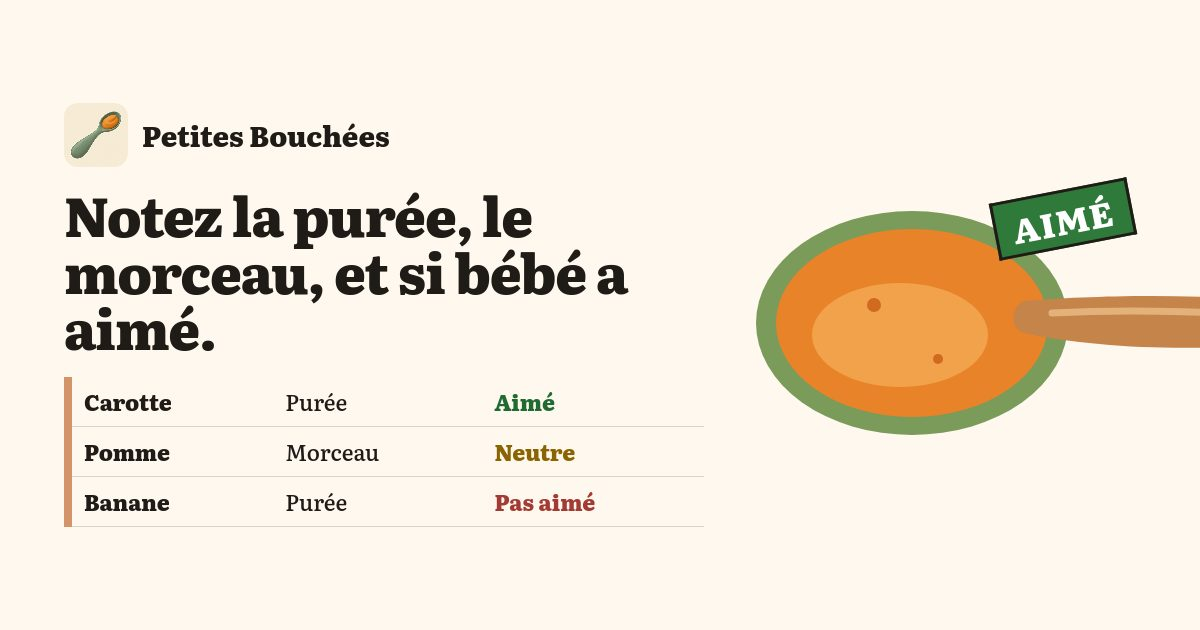
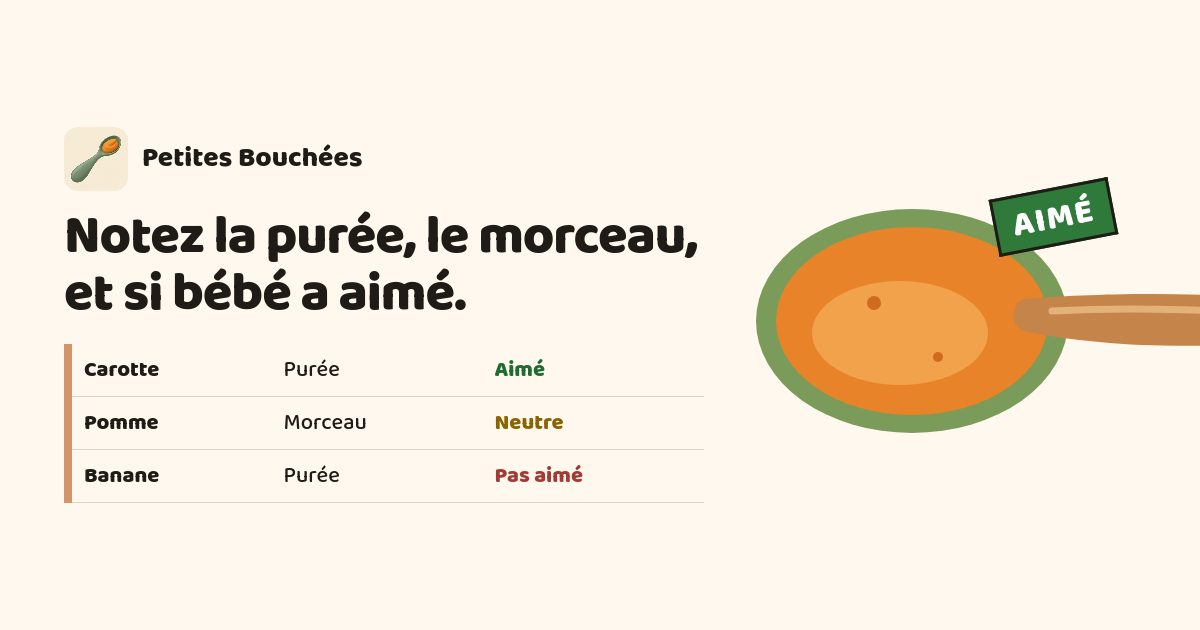
Petites Bouchées: Baloo 2 instead of Literata, and store prices per country (#20)

diff --git a/apps/petites-bouchees/site/spoon.css b/apps/petites-bouchees/site/spoon.css
@@ -1,18 +1,18 @@
 /* Petites Bouchées, "Le couvert". One column until a min-width query. */
 @font-face {
-  font-family: Literata;
+  font-family: "Baloo 2";
   font-style: normal;
   font-weight: 500;
   font-display: swap;
-  src: url("fonts/literata-latin-500-normal.woff2") format("woff2");
+  src: url("fonts/baloo-2-latin-500-normal.woff2") format("woff2");
   unicode-range: U+0000-00FF, U+0131, U+0152-0153, U+02BB-02BC, U+02C6, U+02DA, U+02DC, U+0304, U+0308, U+0329, U+2000-206F, U+20AC, U+2122, U+2191, U+2193, U+2212, U+2215, U+FEFF, U+FFFD;
 }
 @font-face {
-  font-family: Literata;
+  font-family: "Baloo 2";
   font-style: normal;
   font-weight: 800;
   font-display: swap;
-  src: url("fonts/literata-latin-800-normal.woff2") format("woff2");
+  src: url("fonts/baloo-2-latin-800-normal.woff2") format("woff2");
   unicode-range: U+0000-00FF, U+0131, U+0152-0153, U+02BB-02BC, U+02C6, U+02DA, U+02DC, U+0304, U+0308, U+0329, U+2000-206F, U+20AC, U+2122, U+2191, U+2193, U+2212, U+2215, U+FEFF, U+FFFD;
 }
 
@@ -28,7 +28,7 @@
   --paid: #F6E2D2;
   --wrap: 1120px;
   --side: 20px;
-  --serif: Literata, "Iowan Old Style", Palatino, "Palatino Linotype", serif;
+  --serif: "Baloo 2", "Trebuchet MS", sans-serif;
   color-scheme: light;
 }
 

diff --git a/apps/petites-bouchees/site/DESIGN.md b/apps/petites-bouchees/site/DESIGN.md
@@ -27,7 +27,7 @@ Le haut de page est le couvert de la chaise haute : une cuillère vue de dessus,
 
 - C’est l’objet dans la main au moment d’ouvrir l’app, et la question exacte : est-ce que bébé a aimé.
 - Élément mémorable unique : le tampon de réaction qui se pose sur la cuillère (un seul mouvement au chargement, coupé si l’utilisateur réduit les animations).
-- Contraste net : LoadSense est une journée sombre avec une horloge, TempoReps un tableau de salle, Petites Gouttes un tiroir de sachets bleu givre. Ici le thème est clair comme l’app, mais l’objet est une cuillère posée sur la capture du journal, pas un congélateur. Police Literata seule (OFL), absente des trois autres pages.
+- Contraste net : LoadSense est une journée sombre avec une horloge, TempoReps un tableau de salle, Petites Gouttes un tiroir de sachets bleu givre. Ici le thème est clair comme l’app, mais l’objet est une cuillère posée sur la capture du journal, pas un congélateur. Police Baloo 2 seule (OFL, ronde), absente des autres pages.
 
 ## Test du template
 
@@ -38,8 +38,8 @@ Une app voisine (Petites Gouttes, Petites Nuits) n’aboutit pas à ce plan : pa
 - Ordre : titre, badges, cuillère réduite et capture du journal ; texte du journal ; réaction ; catalogue ; fiche de garde et transfert par fichier ; gratuit et Dossier de Bébé ; appel ; apps sœurs ; assistance. Pas de tableau : les dates et les notes sont celles de la capture (carotte le 24 octobre, servie en purée ; pomme le 21 octobre, texture écrasée ; banane le 17 octobre, observée pendant le repas).
 - À partir de 960 px, la colonne de droite du haut de page porte la cuillère et la capture. À partir de 880 px, réaction, catalogue et fiche mettent le texte et la capture côte à côte.
 - Aucun conseil alimentaire ni âge recommandé. La pastille « Souvent ~4 m » / « Often ~4 mo » est décrite comme une pastille du catalogue. Les écrans décrivent les observations. L’app ne remplace pas un professionnel de santé.
-- Prix cités seulement s’ils sont dans FACTS : 6,99 € en France, 7,99 $ sur Google Play aux États-Unis. Le reste renvoie à la boutique. iPhone : Partage familial Apple. Android : compte Google.
-- Police unique, Literata 500 et 800, sous-ensemble latin (latin-1, dont œ), `font-display: swap`, préchargement du seul graisse 800. Environ 22 Ko par fichier.
+- Prix lus sur les fiches publiques le 27 oct. 2026 : App Store FR 6,99 €, US 5,99 $, GB 5,99 £ ; Google Play FR 6,99 €, US 7,99 $, GB 6,99 £. Chaque langue de la page cite la fiche de son pays. iPhone : Partage familial Apple. Android : compte Google.
+- Police unique, Baloo 2, graisses 500 et 800, sous-ensemble latin (latin-1, dont œ), `font-display: swap`, préchargement du seul graisse 800. Environ 19 Ko par fichier. Literata est déjà sur NoBuyCart ; Fraunces est sur la page FastZen.
 - Couleurs de l’app : crème #FFF8EE, encre #1F1B16, sauge #7A9B5A et #3F6B4A, pêche #D4946A, bois #C4844A, réactions #66BB6A, #FFCA28, #EF5350. Les pastilles de catégories reprennent les hex du code.
 - Une seule colonne par défaut. Les grilles à plusieurs colonnes ne vivent que dans une media query `min-width` : réactions à 720 px, offres à 800 px, hero à 960 px, navigation et apps sœurs à 980 px. À 880 px, seule l’ombre sauge du journal s’épaissit.
 - `spoon.css?v=<sha256 court>`.
@@ -52,7 +52,7 @@ Une app voisine (Petites Gouttes, Petites Nuits) n’aboutit pas à ce plan : pa
 Anti-slop :
 
 - [x] Nom masqué, on reconnaît un journal de diversification (cuillère, tampon, carotte, pomme, banane).
-- [x] Aucune police ni palette interdite. Literata OFL, crème et sauge de l’app.
+- [x] Aucune police ni palette interdite. Baloo 2 OFL, crème et sauge de l’app.
 - [x] Classes et police distinctes de LoadSense, TempoReps et Petites Gouttes (0 % de classes partagées, `npm run check`).
 - [x] Pas deux sections à cartes identiques, pas d’emoji, pas de flèche dans les liens, pas de sur-titre en capitales.
 - [x] Un seul élément mémorable : le tampon sur la cuillère.
